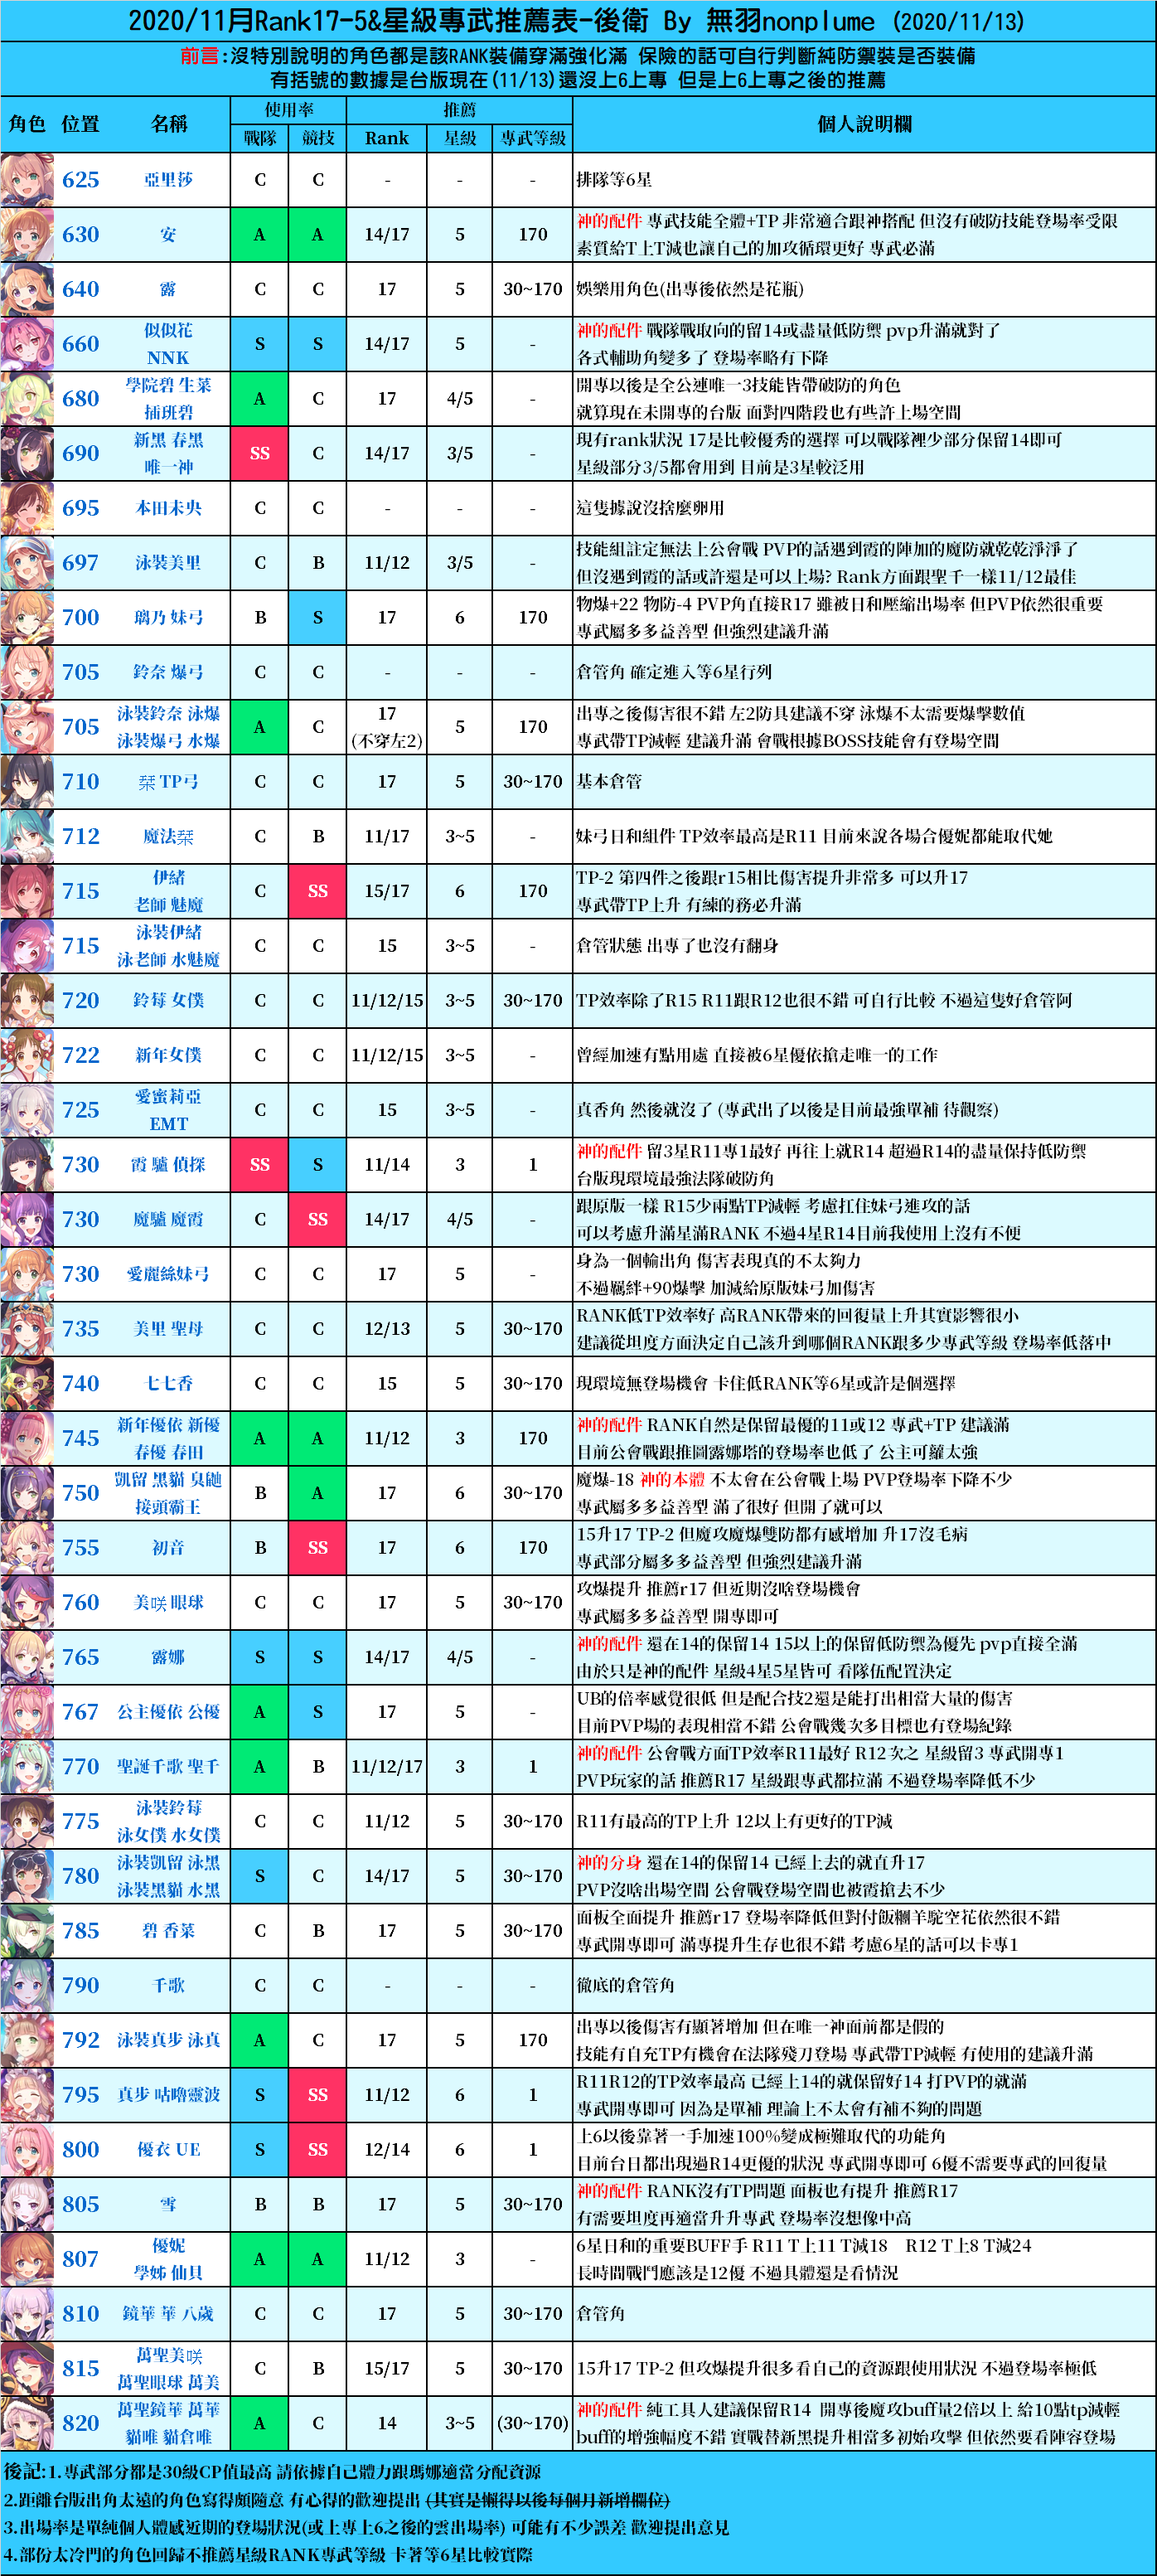
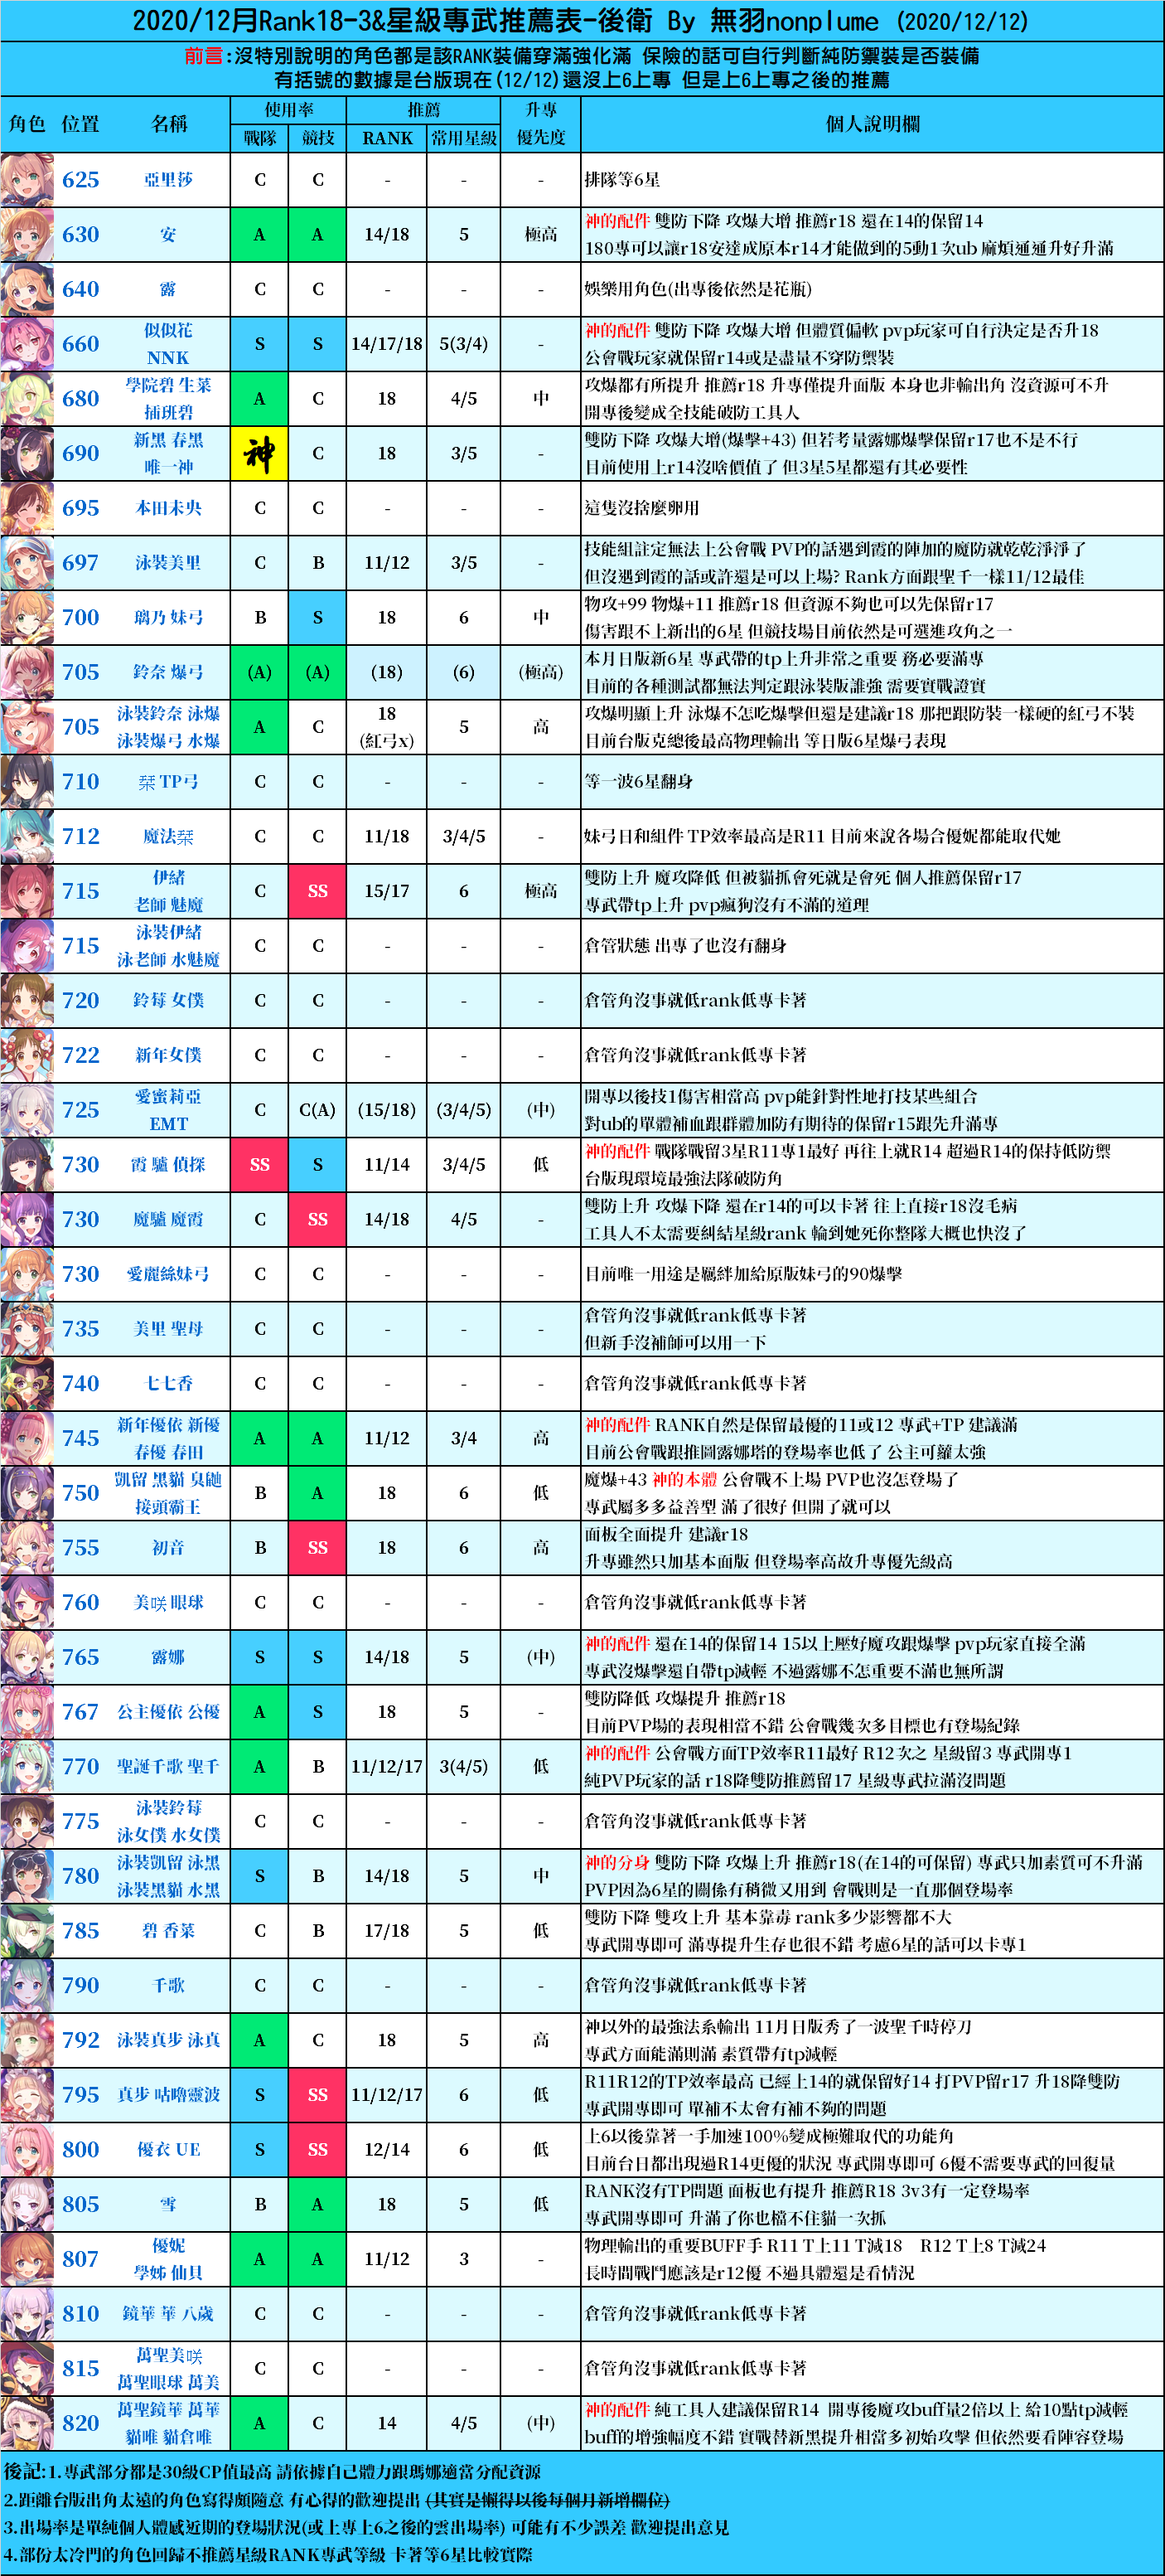
update monthly rank pic

Changed region(s): [[0.0308, 0.0, 0.9549, 0.999], [0.0, 0.2498, 0.0616, 0.281]]

diff --git a/Chloe/group_chats/chats.py b/Chloe/group_chats/chats.py
@@ -42,30 +42,30 @@ async def decrease(session: NoticeSession):
 @on_command('前卫rank', only_to_me=False)
 async def _(session: CommandSession):
     path = os.path.join(os.path.dirname(__file__), "RF.png")
-    await session.send(f'無羽R17-5[CQ:image,file=file:///{path}]')
+    await session.send(f'無羽R18-3[CQ:image,file=file:///{path}]')
 
 
 @on_command('中卫rank', only_to_me=False)
 async def _(session: CommandSession):
     path = os.path.join(os.path.dirname(__file__), "RM.png")
-    await session.send(f'無羽R17-5[CQ:image,file=file:///{path}]')
+    await session.send(f'無羽R18-3[CQ:image,file=file:///{path}]')
 
 
 @on_command('后卫rank', only_to_me=False)
 async def _(session: CommandSession):
     path = os.path.join(os.path.dirname(__file__), "RB.png")
-    await session.send(f'無羽R17-5[CQ:image,file=file:///{path}]')
+    await session.send(f'無羽R18-3[CQ:image,file=file:///{path}]')
 
 
 @on_command('rank', only_to_me=False)
 async def _(session: CommandSession):
-    path = os.path.join(os.path.dirname(__file__), "Rank.png")
-    await session.send(f'煌灵R17-4[CQ:image,file=file:///{path}]')
+    #path = os.path.join(os.path.dirname(__file__), "Rank.png")
+    #await session.send(f'煌灵R17-4[CQ:image,file=file:///{path}]')
 
-    # path1 = os.path.join(os.path.dirname(__file__), "Rank1.png")
-    # path2 = os.path.join(os.path.dirname(__file__), "Rank2.png")
-    # path3 = os.path.join(os.path.dirname(__file__), "Rank3.png")
-    # await session.send(f'煌灵R17-3[CQ:image,file=file:///{path1}][CQ:image,file=file:///{path2}][CQ:image,file=file:///{path3}]')
+    path1 = os.path.join(os.path.dirname(__file__), "Rank1.jpg")
+    path2 = os.path.join(os.path.dirname(__file__), "Rank2.jpg")
+    path3 = os.path.join(os.path.dirname(__file__), "Rank3.jpg")
+    await session.send(f'煌灵R18-3[CQ:image,file=file:///{path1}][CQ:image,file=file:///{path2}][CQ:image,file=file:///{path3}]')
 
 
 @on_command('黄骑充电')
